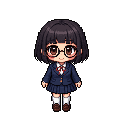
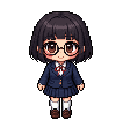
1번 학생 그림을 다른 학생 크기에 맞춰 키움
Claude-Session: https://claude.ai/code/session_014orTwUKjGgSGTxTtpXaSX7

Changed region(s): [[0.2188, 0.0625, 0.75, 0.9375]]

diff --git a/sprites.js b/sprites.js
@@ -250,7 +250,7 @@ export function sprite(kind, dir = "d", frame = 0) {
   const ch = CHARS[kind];
   if (ch?.png) { // PixelLab 그림: 파일이 늦게 오므로 받는 즉시 같은 캔버스에 그림(걸을 때는 2px 위로)
     const img = new Image();
-    img.onload = () => { ctx.drawImage(img, 0, frame ? 6 : 8); ctx.globalCompositeOperation = "destination-over"; painter(ctx).oval(64, 121, 22, 3, SHADOW); };
+    img.onload = () => { ctx.drawImage(img, 0, frame ? -2 : 0); ctx.globalCompositeOperation = "destination-over"; painter(ctx).oval(64, 121, 22, 3, SHADOW); };
     img.src = new URL(`./chars/${ch.png}_${{ d: "south", u: "north", r: "east", l: "west" }[dir]}.png`, import.meta.url).href;
     cache.set(key, cv); return cv;
   }
